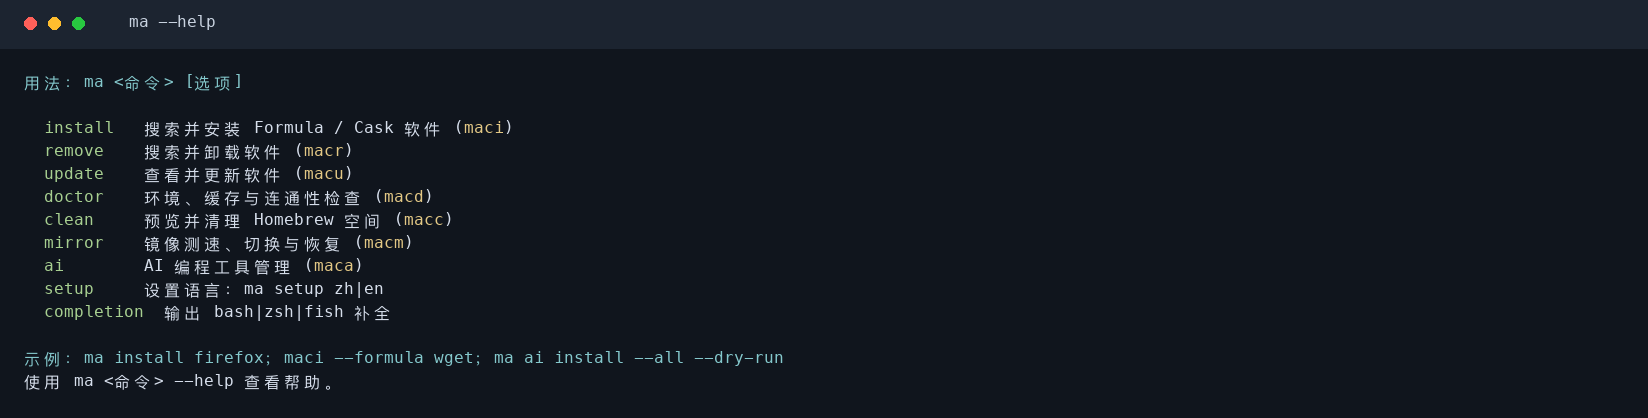
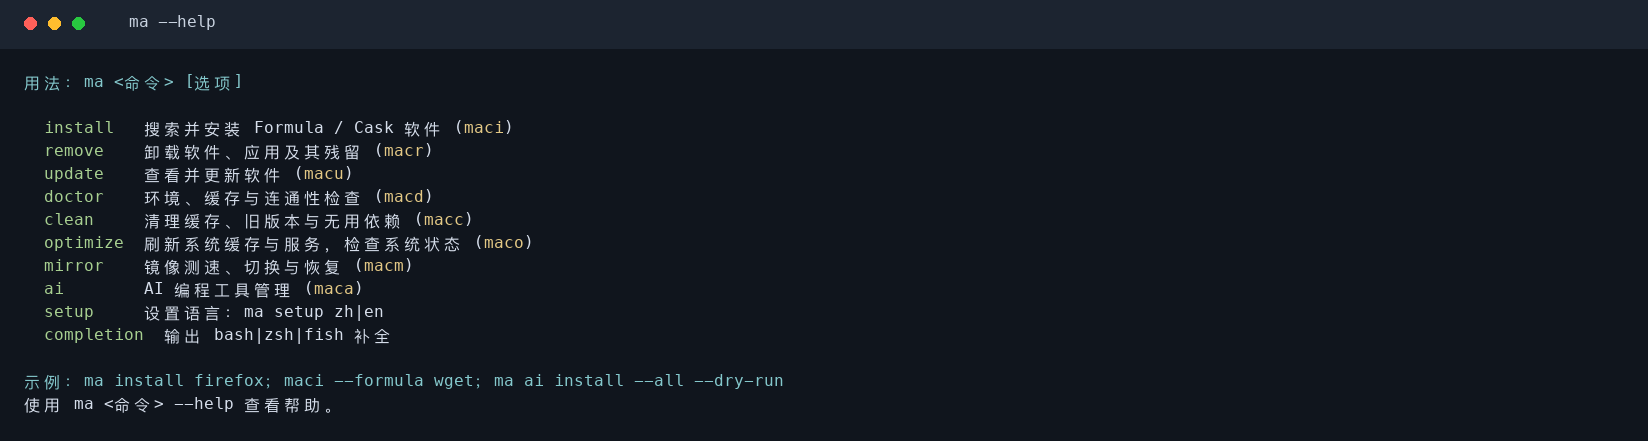
docs(mole): explain optimization tasks and application cleanup

diff --git a/README.en.md b/README.en.md
@@ -29,13 +29,13 @@ Supports Intel and Apple Silicon, works with macOS system Bash 3.2, and uses the
 
 ## Interface demo
 
-Search, selection, and package details: Blue marks official Homebrew sources; purple marks third-party taps. Types use `formula` / `cask`; names are white, with a green `✓` beside installed versions. the name heading is centered, package names are left aligned, and versions are right aligned. Use `Tab` to select multiple packages and `Ctrl+/` to toggle details.
+Search, selection, and package details: Blue marks official Homebrew sources; purple marks third-party taps. Types use `formula` / `cask` (`app` for native applications); names are white, with a green `✓` beside installed versions. The name heading is centered, package names are left aligned, and versions are right aligned. Use `Tab` to select multiple packages and `Ctrl+/` to toggle details.
 
 ![maci searching for Firefox with Homebrew package details on the right](docs/images/install-status.png)
 
 Commands and shortcuts:
 
-![ma help showing seven features and their shortcuts](docs/images/commands-color.png)
+![ma help showing features and their shortcuts](docs/images/commands-color.png)
 
 ## Install and uninstall
 
@@ -109,10 +109,11 @@ The standalone installer tries GitHub Raw and then jsDelivr, downloading and val
 | Feature | Full command | Shortcut |
 |---|---|---|
 | Search and install packages | `ma install` | `maci` |
-| Search and remove packages | `ma remove` | `macr` |
+| Remove packages, apps and leftovers | `ma remove` | `macr` |
 | Review and update packages | `ma update` | `macu` |
 | Check environment, caches, and connectivity | `ma doctor` | `macd` |
 | Preview and clean disk space | `ma clean` | `macc` |
+| Refresh caches and services, optimize system | `ma optimize` | `maco` |
 | Benchmark, switch, and restore mirrors | `ma mirror` | `macm` |
 | Manage AI coding tools | `ma ai` | `maca` |
 
@@ -139,7 +140,10 @@ maci --list firefox          # List matches without opening the selector
 maci --refresh               # Fetch the name catalog again
 
 macr                        # Select multiple installed packages
-macr --cask firefox
+macr                        # Native apps first, then Homebrew packages
+macr --apps                 # Native applications and leftovers only
+macr --apps --app-data       # Include personal data in the reviewed plan
+macr --cask firefox          # Homebrew casks only
 macr --dry-run firefox      # Show the removal plan after selection
 
 macu                        # Select updates with current and target versions
@@ -163,6 +167,8 @@ Keyboard hints and column headings appear on separate lines. Chinese mode distin
 | `Ctrl+E` | Switch between contiguous substring and fuzzy matching |
 | `Ctrl+/` | Show / hide package details |
 | `Esc` | Exit and stop background package queries |
+
+`macr` places native applications first with yellow `app` labels and white names. Homebrew `cask` / `formula` colors remain blue or purple. Application removal reuses Mole source and previews bundles and leftovers before confirmation. Personal preferences and support data are kept by default; `--app-data` includes them in the plan. Native files move to Trash; Homebrew apps use `brew uninstall --cask`. Selecting both views of one app uninstalls it once. Any need for administrator access or quitting a running app is shown in the preview and acted on after confirmation. Explicit `--formula` / `--cask` filters select Homebrew packages; `--apps` selects native apps and can be combined with either filter.
 
 `maci`, `macu` and `macr` first show a list snapshot from the last 24 hours, then refresh it in the background without restarting the selector. First use still loads live data. Search and selection remain available during refresh; recent fzf versions retain selected packages. Pressing Enter early waits for the refresh to verify the selection. Removed packages and updates no longer needed are skipped; cached state never authorizes a package change. Single-type `--formula` / `--cask` selectors can reuse a combined snapshot, and live queries request only the required type. Switching details cancels the old preview query to avoid accumulating background work. Name catalogs are cached for one hour; `Ctrl+R` forces a catalog refresh. Cache defaults to `~/Library/Caches/mactools` and respects `XDG_CACHE_HOME`. `--list` always uses live state. `--list` and `--dry-run` neither write mactools cache nor change packages.
 
@@ -217,18 +223,54 @@ Select from the following actions, then preview and confirm:
 | `project-cache` | Rebuildable project caches, with tracked-file and nested-repository guards |
 | `project-artifacts` | Dependencies and build output inactive for at least 7 days and passing activity/content checks |
 | `installers` | Installer DMG, PKG, ISO, XIP and similar files under home; ZIPs must contain installer content |
+| `trash` / `saved-state` | Trash and closed-app window restoration state |
+| `recent-items` / `finder-metadata` | Review recent records and Finder metadata; preserve history and `.DS_Store` protected by Mole |
+| `mail-downloads` / `incomplete-downloads` | Old Mail download copies and idle incomplete downloads |
+| `old-app-versions` / `orphan-app-data` / `orphan-services` | Old app versions, app leftovers and stale system registrations |
+| `system-cache` / `group-cache` / `silicon-cache` | Old system, group container and Rosetta / Metal caches |
+| `device-firmware` / `failed-backups` | Old firmware downloads and stale inactive incomplete backups |
+| `mobile-cache` / `toolbox-cache` / `nix-garbage` | Unavailable simulators and device support, old Toolbox versions and dead Nix store paths |
+| `local-snapshots` / `system-updates` / `large-files` | Review snapshots, update staging and large files without automatic deletion |
+| `periodic-maintenance` / `disk-verify` | System periodic tasks and filesystem verification; disk verification requires `MOLE_ENABLE_DISK_VERIFY=1` |
 
 Homebrew uses its native `--dry-run`. Developer-cache previews only query paths and perform a bounded size scan; they never invoke cleanup commands. Sizes show current cache totals, not estimated savings. Missing optional tools show `SKIP`. Future installs or builds may recreate caches; stop Xcode builds before cleaning DerivedData.
 
-`--formula` / `--cask` restrict cleanup to the corresponding Homebrew actions. `--dev` selects developer actions without requiring Homebrew and cannot be combined with those flags. Cleanup preserves application user data, sources and Xcode Archives, and does not use `--zap`. `project-artifacts` can remove eligible inactive `node_modules`, `.venv`, `target`, `dist` and similar directories after preview and confirmation; dependencies or build output will need to be recreated.
+`--formula` / `--cask` restrict cleanup to the corresponding Homebrew actions. `--dev` selects developer actions without requiring Homebrew and cannot be combined with those flags. Cleanup does not use `--zap`. Ordinary cache actions preserve personal app data, sources and Xcode Archives. Trash, Mail downloads, recent items and saved state are separate opt-in categories that identify the affected data. `project-artifacts` can remove eligible inactive `node_modules`, `.venv`, `target`, `dist` and similar directories after preview and confirmation; dependencies or build output will need to be recreated.
 
-Extended cleanup bundles and reuses [Mole](https://github.com/tw93/Mole) source; no separate Mole installation is required. Upstream whitelist, process, open-file and path guards are retained. Preview scans without deleting; apply additionally checks the previewed target identities and skips new or replaced targets. mactools provides the selector and confirmation; detailed Mole diagnostics retain upstream English text. Cleanup neither requests nor reuses administrator access, empties Trash, removes recent-document records/mail attachments, or touches system snapshots and OS update staging.
+Extended cleanup bundles and reuses [Mole](https://github.com/tw93/Mole) source; no separate Mole installation is required. Upstream whitelist, process, open-file and path guards are retained. Preview scans without deleting; apply additionally checks the previewed target identities and skips new or replaced targets. mactools provides the selector and confirmation; detailed Mole diagnostics retain upstream English text. System cache and orphan-service actions request administrator access after confirmation when needed; previews do not request access. Snapshot, OS update staging and large-file actions only review or suggest candidates without deleting them, matching the vendored Mole version.
 
 Protect paths in `~/.config/mactools/mole/whitelist`, one absolute path per line (`~` is supported). Cleanup records are under `~/Library/Logs/mactools/mole/`, isolated from a separate Mole installation. Preview can write tool-owned diagnostics and temporary scan files, but never deletes cleanup targets. See [Mole integration](docs/MOLE.md) for the pinned source, coverage and rebuild steps. Distributed under [GPL-3.0](LICENSE); attribution is in [NOTICE](NOTICE.md).
 
 The cleanup menu opens before querying installed packages. Selection and preview query only the chosen package type; `autoremove` needs no package listing. Execution uses a freshly generated cleanup plan.
 
 The cleanup selector follows `maci`: search at the top, aligned type/name/scope columns, and descriptions with previews on the right. Use `Ctrl+/` to toggle details and `Ctrl+A` to select all. Repeated warnings about packages without the latest version installed are grouped in the details pane; the full plan and confirmation still appear before cleanup.
+
+## System optimization
+
+```bash
+maco                              # Select tasks, preview, then confirm
+ma optimize --list                # List tasks without scanning the system
+maco cache-refresh --dry-run      # Preview QuickLook and icon-cache refresh
+maco network-optimization         # Refresh DNS after VPN checks
+maco sqlite-vacuum --dry-run      # Preview database compaction
+```
+
+Reuses Mole's 19 optimization tasks without a separate `mo` installation. The selector follows the `maci` search, multi-select and detail layout. Opening it performs no optimization. `--dry-run` previews only; confirmed runs execute selected tasks and request administrator access only when needed. Noninteractive runs default to preview; applying requires explicit `--yes`.
+
+| Tasks | Effects |
+| --- | --- |
+| `cache-refresh` / `saved-state-cleanup` | Refresh QuickLook and icon caches; remove app states older than 30 days |
+| `fix-broken-configs` / `shared-file-list-repair` | Repair corrupted preferences and eligible Finder shared lists; preserve recent-document data |
+| `network-optimization` / `network-stack-optimize` | Refresh DNS, routing and ARP caches; may briefly reconnect networking; retains VPN checks |
+| `sqlite-vacuum` | Compact Mail, Safari and Messages databases; skip running apps |
+| `prevent-network-dsstore` / `legacy-overrides-audit` | Set persistent Finder preferences for network/external volumes; audit old hidden overrides |
+| `disk-permissions-repair` | Detect and repair user-directory permissions using upstream rules |
+| `spotlight-index-optimize` / `spotlight-orphan-rules-cleanup` | Rebuild Spotlight indexes when needed; remove orphaned app search rules |
+| `periodic-maintenance` / `disk-verify` | Run supported maintenance; explicitly enabled filesystem verification does not repair disks |
+| `login-items-audit` / `launch-agents-cleanup` | Audit broken login items and LaunchAgents, retaining upstream report-only behavior |
+| `quarantine-cleanup` / `notification-cleanup` / `coreduet-cleanup` | Process download tracking, old notifications and usage records using upstream rules |
+
+Details and the final preview explain persistent preference changes, history processing and service refreshes. Filesystem verification requires `MOLE_ENABLE_DISK_VERIFY=1`. Detailed diagnostics retain upstream wording. See [Mole integration](docs/MOLE.md) for source and protection details.
 
 ## Mirrors
 
@@ -313,7 +355,7 @@ source <(ma completion zsh)
 ma completion fish | source
 ```
 
-Completion covers `ma` and all seven shortcuts, without network queries during completion.
+Completion covers `ma` and all eight shortcuts, without network queries during completion.
 
 ## Porting and validation
 

diff --git a/README.md b/README.md
@@ -35,7 +35,7 @@ ma ai install --all --dry-run
 
 完整命令和快捷入口：
 
-![ma 帮助界面，展示七项功能及对应缩写](docs/images/commands-color.png)
+![ma 帮助界面，展示功能及对应缩写](docs/images/commands-color.png)
 
 ## 安装与卸载
 
@@ -109,10 +109,11 @@ bash uninstall.sh --bin-dir "$HOME/bin"
 | 功能 | 完整命令 | 缩写 |
 |---|---|---|
 | 搜索并安装软件 | `ma install` | `maci` |
-| 搜索并卸载软件 | `ma remove` | `macr` |
+| 卸载软件、应用及其残留 | `ma remove` | `macr` |
 | 查看并更新软件 | `ma update` | `macu` |
 | 环境、缓存和连通性检查 | `ma doctor` | `macd` |
 | 预览并清理空间 | `ma clean` | `macc` |
+| 刷新缓存与服务、系统优化 | `ma optimize` | `maco` |
 | 镜像源测速、切换和恢复 | `ma mirror` | `macm` |
 | AI 编程工具管理 | `ma ai` | `maca` |
 
@@ -139,7 +140,10 @@ maci --list firefox          # 只列出匹配项，不进入交互
 maci --refresh               # 重新获取名称目录
 
 macr                        # 多选已安装软件
-macr --cask firefox
+macr                        # 本机应用排在前面，随后是 Homebrew 软件
+macr --apps                 # 只选择本机应用及残留
+macr --apps --app-data       # 同时预览个人数据，确认后卸载
+macr --cask firefox          # 仅 Homebrew cask
 macr --dry-run firefox      # 选择后只显示卸载计划
 
 macu                        # 新旧版本列表，多选更新
@@ -153,7 +157,7 @@ macu --refresh-index        # 先确认并执行 brew update，再查看更新
 
 安装界面展示来源、名称和已安装版本，预览区显示 Homebrew 软件详情。更新界面展示已安装版本和目标版本。搜索只匹配名称，来源、版本和安装状态不参与匹配。
 
-界面将操作提示与列标题分行显示，中文模式以“工具 / 应用”区分软件类型。宽终端在右侧展示详情，较窄终端将详情放到底部；预览字段遵循界面语言，软件名称和上游简介保留原文。
+界面将操作提示与列标题分行显示，软件类型显示为 `formula` / `cask`，本机应用显示为 `app`。宽终端在右侧展示详情，较窄终端将详情放到底部；预览字段遵循界面语言，软件名称和上游简介保留原文。
 
 | 按键 | 操作 |
 |---|---|
@@ -163,6 +167,8 @@ macu --refresh-index        # 先确认并执行 brew update，再查看更新
 | `Ctrl+E` | 切换连续子串 / 模糊匹配 |
 | `Ctrl+/` | 显示 / 收起软件详情 |
 | `Esc` | 退出并终止后台列表查询 |
+
+`macr` 的本机应用使用黄色 `app` 标识并排在列表前面，名称保持白色；Homebrew 的 `cask` / `formula` 仍使用蓝色或紫色。应用卸载复用 Mole 源码，确认前列出应用本体及残留；默认保留个人偏好与支持数据，`--app-data` 才将这些数据纳入计划。本机文件移到废纸篓，Homebrew 管理的应用由 `brew uninstall --cask` 卸载；同时选择应用与对应 cask 时只执行一次。需要管理员权限或退出运行中的应用时，会在预览中说明，确认后才执行。`--formula` / `--cask` 单独使用时只选择对应 Homebrew 类型，`--apps` 只列本机应用，也可与这两个选项组合。
 
 `maci`、`macu`、`macr` 优先显示最近 24 小时内的列表快照，后台重新查询并动态替换列表；首次使用仍需加载数据。刷新期间可以继续搜索和多选，新版 fzf 会保留已选软件。提前按 Enter 时会等待后台核对完成，已卸载或不再需要更新的软件会跳过；缓存不会直接决定包变更。单独筛选 `--formula` / `--cask` 时也可复用完整列表缓存，实时查询只读取所需类型。切换详情会停止旧的预览查询，避免后台查询积压。名称目录缓存一小时，`Ctrl+R` 会强制刷新目录。缓存默认在 `~/Library/Caches/mactools`，遵循 `XDG_CACHE_HOME`。`--list` 始终读取实时状态，`--list` 与 `--dry-run` 不写工具缓存，也不执行包变更。
 
@@ -217,18 +223,54 @@ macc project-artifacts --dry-run # 闲置项目依赖与构建产物
 | `project-cache` | 项目可再生缓存，检查 Git 跟踪文件和嵌套仓库 |
 | `project-artifacts` | 至少闲置 7 天、通过活动与内容检查的项目依赖和构建目录 |
 | `installers` | 用户目录中的 DMG、PKG、ISO、XIP 等安装包；ZIP 仅识别含安装内容的压缩包 |
+| `trash` / `saved-state` | 废纸篓、已关闭应用的窗口恢复状态 |
+| `recent-items` / `finder-metadata` | 检查最近记录与 Finder 元数据，保留 Mole 强制保护的记录和 `.DS_Store` |
+| `mail-downloads` / `incomplete-downloads` | 旧邮件下载副本、闲置的未完成下载 |
+| `old-app-versions` / `orphan-app-data` / `orphan-services` | 应用旧版本、卸载残留及失效的系统服务注册 |
+| `system-cache` / `group-cache` / `silicon-cache` | 系统旧缓存、共享容器及 Rosetta / Metal 缓存 |
+| `device-firmware` / `failed-backups` | 旧设备固件下载、过期且非活动的未完成备份 |
+| `mobile-cache` / `toolbox-cache` / `nix-garbage` | 无效模拟器与设备支持、Toolbox 旧版本、Nix 无引用存储 |
+| `local-snapshots` / `system-updates` / `large-files` | 检查快照、更新暂存及大文件，不自动删除 |
+| `periodic-maintenance` / `disk-verify` | 系统定期维护、磁盘文件系统检查；磁盘检查需 `MOLE_ENABLE_DISK_VERIFY=1` |
 
 Homebrew 使用自己的 `--dry-run` 展示预览；开发缓存只查询目录并限时统计大小，不在预览时调用清理命令。显示的是当前缓存总量，并非预计回收量。缺失的可选工具显示 `SKIP`。再次安装或构建时可能重新生成缓存；清理 Xcode 前请停止构建。
 
-`--formula` / `--cask` 仅保留对应 Homebrew 项目；`--dev` 仅保留开发相关项目，不依赖 Homebrew，不能与前两者合用。不清除应用用户数据、源代码或 Xcode Archives，不使用 `--zap`。`project-artifacts` 会列出符合规则的闲置 `node_modules`、`.venv`、`target`、`dist` 等目录，确认后删除；以后需要重新安装依赖或构建。
+`--formula` / `--cask` 仅保留对应 Homebrew 项目；`--dev` 仅保留开发相关项目，不依赖 Homebrew，不能与前两者合用。不使用 `--zap`；普通缓存类别保留应用个人数据、源代码和 Xcode Archives。废纸篓、邮件下载、最近使用记录、保存状态等独立类别会明确列出对应数据，请按需选择。`project-artifacts` 会列出符合规则的闲置 `node_modules`、`.venv`、`target`、`dist` 等目录，确认后删除；以后需要重新安装依赖或构建。
 
-扩展清理直接复用 [Mole](https://github.com/tw93/Mole) 的源码，随 mactools 打包，无需另外安装 Mole。保留上游的白名单、进程、打开文件和路径保护，预览只扫描；执行时还核对预览记录中的目标身份，新出现或被替换的目标会跳过。菜单和确认仍由 mactools 提供，Mole 的详细诊断保留上游英文输出。清理不会请求或复用管理员权限，不清空废纸篓，不删最近文档记录、邮件附件、系统快照或软件更新文件。
+扩展清理直接复用 [Mole](https://github.com/tw93/Mole) 的源码，随 mactools 打包，无需另外安装 Mole。保留上游的白名单、进程、打开文件和路径保护，预览只扫描；执行时还核对预览记录中的目标身份，新出现或被替换的目标会跳过。菜单和确认仍由 mactools 提供，Mole 的详细诊断保留上游英文输出。系统缓存、失效服务等项目在确认后按需申请管理员权限，预览不申请权限。系统快照、系统更新暂存和大文件类别仅检查或列出建议，不自动删除；这与所复用的 Mole 版本一致。
 
 自定义保护路径写入 `~/.config/mactools/mole/whitelist`（每行一个绝对路径，支持 `~`）。清理记录保存在 `~/Library/Logs/mactools/mole/`，与独立安装的 Mole 分开。预览也可能写入本工具的诊断记录及临时扫描文件，但不会删除清理目标。源码固定版本、接入范围与重建方法见 [Mole 接入说明](docs/MOLE.md)。项目采用 [GPL-3.0](LICENSE)，上游归属见 [NOTICE](NOTICE.md)。
 
 清理菜单直接打开，选择后才读取对应类型的软件列表；预览只查询当前项目，单独选择 `autoremove` 时无需读取软件列表。执行前生成实时清理计划。
 
 清理界面与 `maci` 保持一致：顶部搜索、对齐的类型/名称/范围列表，右侧展示清理说明和预览。`Ctrl+/` 收起或展开详情，`Ctrl+A` 全选；重复的“尚未安装最新版”提示在详情中合并显示，执行前仍展示完整计划并确认。
+
+## 系统优化
+
+```bash
+maco                              # 选择优化任务，先预览再确认
+ma optimize --list                # 列出任务，不扫描系统
+maco cache-refresh --dry-run      # 预览 QuickLook 和图标缓存刷新
+maco network-optimization         # 检查 VPN 后刷新 DNS 缓存
+maco sqlite-vacuum --dry-run      # 预览数据库整理，保留运行中应用保护
+```
+
+复用 Mole 的 19 项优化任务，无需另外安装 `mo`。列表沿用 `maci` 的搜索、多选与详情布局，按需选择，不在打开界面时执行优化。`--dry-run` 只预览；确认后只运行所选任务，必要时申请管理员权限。非交互环境默认只预览，自动执行需显式 `--yes`。
+
+| 任务 | 操作与影响 |
+| --- | --- |
+| `cache-refresh` / `saved-state-cleanup` | 刷新 QuickLook、图标缓存；清理超过 30 天的应用保存状态 |
+| `fix-broken-configs` / `shared-file-list-repair` | 检查并修复损坏偏好与可修复的 Finder 共享列表，保留最近文件数据 |
+| `network-optimization` / `network-stack-optimize` | DNS、路由与 ARP 刷新；网络可能短暂重连，保留 VPN 检查 |
+| `sqlite-vacuum` | 整理 Mail、Safari、Messages 等数据库；应用运行中跳过 |
+| `prevent-network-dsstore` / `legacy-overrides-audit` | 调整网络与外接卷的 Finder 偏好；检查旧优化工具遗留的隐藏设置 |
+| `disk-permissions-repair` | 按上游检测修复用户目录权限 |
+| `spotlight-index-optimize` / `spotlight-orphan-rules-cleanup` | 按需重建 Spotlight 索引、移除失效的应用搜索规则 |
+| `periodic-maintenance` / `disk-verify` | 系统支持时执行定期维护；显式启用后校验文件系统，不修复磁盘 |
+| `login-items-audit` / `launch-agents-cleanup` | 检查失效登录项与 LaunchAgents，保留上游仅报告行为 |
+| `quarantine-cleanup` / `notification-cleanup` / `coreduet-cleanup` | 按上游规则整理下载跟踪、旧通知及使用记录；预览会说明涉及的数据 |
+
+部分任务会修改持久偏好、历史记录或刷新服务，具体影响会在详情和确认前展示。磁盘检查需要 `MOLE_ENABLE_DISK_VERIFY=1`。详细诊断保留 Mole 原文；保护规则与源码说明见 [Mole 接入说明](docs/MOLE.md)。
 
 ## 镜像源
 
@@ -313,7 +355,7 @@ source <(ma completion zsh)
 ma completion fish | source
 ```
 
-补全覆盖 `ma` 和七个缩写入口，不在补全期间联网查询。
+补全覆盖 `ma` 和八个缩写入口，不在补全期间联网查询。
 
 ## 移植与验证
 

diff --git a/docs/MOLE.md b/docs/MOLE.md
@@ -1,4 +1,4 @@
-# Mole 清理源码接入
+# Mole 清理与应用卸载源码接入
 
 上游：https://github.com/tw93/Mole
 
@@ -9,9 +9,11 @@
 
 ## 源码和安装
 
-`third_party/mole/` 保留 clean、purge、installer 入口与共享 lib 源码，
+`third_party/mole/` 保留 clean、purge、installer、uninstall 入口与共享 lib 源码，
 直接调用上游函数，未将其改写成另一份路径列表。`mactools-bridge.sh`
 负责类别分派、权限范围与预览授权；`bin/mactools_mole.py` 负责加载和进程生命周期。
+`mactools-apps.sh` 与 `bin/mactools_apps.py` 提供本机应用识别、残留预览及卸载。
+`mactools-optimize.sh` 与 `bin/mactools_optimize.py` 接入优化任务。
 这不需要安装、更新或调用系统中的 `mo`。
 
 `bin/mactools_mole.zip` 是上述目录的可读源码包，包含 GPL 文本与归属说明。
@@ -47,6 +49,19 @@ python3 -m unittest discover -s tests -v
 | project-cache | clean_project_caches，使用上游扫描和 Git 保护 |
 | project-artifacts | clean_project_artifacts，使用上游闲置、内容、活动与删除前复查 |
 | installers | collect_installers + build_installer_delete_plan + execute_installer_delete_plan |
+| trash / recent-items / mail-downloads / incomplete-downloads | clean_trash / _clean_recent_items / _clean_mail_downloads / _clean_incomplete_downloads |
+| saved-state | opt_saved_state_cleanup |
+| old-app-versions | Chrome / Edge / Brave / Autodesk Fusion 的旧版本清理函数 |
+| orphan-app-data | clean_orphaned_app_data + clean_orphaned_container_stubs |
+| orphan-services / system-cache | clean_orphaned_system_services / clean_deep_system |
+| finder-metadata / group-cache / silicon-cache | clean_finder_metadata / clean_group_container_caches / clean_apple_silicon_caches |
+| device-firmware / failed-backups | clean_cached_device_firmware / clean_time_machine_failed_backups |
+| mobile-cache / toolbox-cache | clean_dev_mobile + clean_xcode_tools / clean_dev_jetbrains_toolbox |
+| nix-garbage | clean_dev_nix，通过 nix-store 查询并仅删除已预览的无引用路径 |
+| local-snapshots | clean_local_snapshots，仅提供上游检查与建议 |
+| system-updates | 保留上游不删除更新暂存的策略，仅查看目录大小 |
+| large-files | check_large_file_candidates，仅列建议 |
+| periodic-maintenance / disk-verify | opt_periodic_maintenance / opt_disk_verify，磁盘校验需显式启用 |
 
 原有 Homebrew、pip、npm、pnpm、uv、Go、ccache、DerivedData 入口保留原生计划实现，
 不调用上游整套 clean_developer_tools，因此不会顺带执行额外 Homebrew 清理。
@@ -60,16 +75,52 @@ Mole 类别可有重叠；前一项已删掉的路径不会再次删除。
 目录授权覆盖该目录内容，不是每个子文件的永久快照；正在写入的数据仍依赖上游活动检查。
 子进程退出、超时或中断时，适配器回收整个进程组，避免残留清理进程。
 
-以下是有意收窄的范围，不能将“包含源码”理解为执行 Mole 的所有系统维护功能：
+`ma clean` 仅运行所选清理类别；系统优化由独立的 `ma optimize` / `maco` 入口选择：
 
-- 不获取或复用 sudo，拒绝 home 之外的删除与管理命令。
-- 不清空废纸篓、最近文档、邮件下载、应用保存状态；不删除签名应用的旧版本。
-- 不接入 orphaned app data、system services、系统快照、系统更新、磁盘维护或 Nix 系统 store。
-- 不接入 simctl 的批量直接删除；仅保留经过清理入口保护的 XCTest 设备与文档缓存。
-- 不清理源码、应用账户和会话、Xcode Archives、虚拟机磁盘及受保护模型目录。
-- project-artifacts 单独列在菜单，可移除闲置项目的依赖目录；Git 文件、嵌套仓库、
-  活跃/近期项目和无法确认状态的项目按上游规则保留。无人值守执行跳过云同步产物。
-- 安装包扫描限定在 home 的上游目录列表；不扫描 `/Users/Shared`。普通 ZIP 不视为安装包。
+- 普通缓存类别禁用顺带清空废纸篓、邮件下载、最近记录及旧应用版本；这些功能单独列为可选类别。
+- 系统缓存、失效服务及其他需要管理员权限的任务，仅在预览与确认后按需授权。
+  预览不调用 sudo；无权读取的目录保持不可预览，不会在授权后追加为可删除目标。
+- 最近记录与 Finder 元数据保留 Mole 的强制保护；相关菜单标为检查，受保护的记录及 `.DS_Store` 不删除。
+- 系统快照由 Time Machine 管理、更新暂存由 Software Update 管理，所复用版本不自动删除它们。
+  大文件也只列建议；磁盘校验不执行修复，且需要 `MOLE_ENABLE_DISK_VERIFY=1`。
+- 不清理源代码、Xcode Archives、虚拟机磁盘及受保护模型目录。专门的保存状态、
+  邮件下载、最近记录和应用残留类别会清理其描述中的数据，并在确认前展示范围。
+- project-artifacts 可移除闲置项目的依赖目录；Git 文件、嵌套仓库、活跃/近期项目和无法确认
+  状态的项目按上游规则保留。无人值守执行跳过云同步产物。
+- 安装包扫描沿用上游用户目录和 `/Users/Shared`，仍受身份与路径保护；普通 ZIP 不视为安装包。
+- Nix 重新查询无引用路径，只把已预览并保持身份的路径交给原生删除接口；
+  无效模拟器逐个核对设备目录，只处理预览时已记录的实例。
+- 失败备份沿用上游直接调用 `tmutil delete` 的行为；权限不足时保留并报告，不自动提权重试。
+
+## macr 应用及残留卸载
+
+默认 `macr` 列出 Mole 允许卸载的本机应用，以黄色 `app` 排在 Homebrew 行前面；
+类型与名称仍使用原有对齐方式，名称为白色。`macr --apps` 只列本机应用，
+`--formula` / `--cask` 单独使用只列 Homebrew；组合 `--apps --cask` 可同时选择。
+列表仅发现应用，不在打开界面时扫描所有残留；缓存刷新和选择后核验沿用包管理界面。
+
+卸载复用 Mole 的 `_batch_scan_app_details`、`_uninstall_prepare_data_review`、
+`_batch_execute_removals` 与删除保护。确认前显示应用及残留完整路径，默认保留个人偏好
+和支持数据；`--app-data` 显式纳入这些数据。系统残留中的仅供审查项会保留。
+本机文件移到废纸篓；Homebrew 管理的应用使用其所属 Homebrew 的完整 cask 名卸载，
+不传 `--zap`。同时选中应用及同一 cask 时去重，不按软件短名跨 tap 或 Homebrew 前缀合并。
+Homebrew 来源查询失败或声明冲突时不自动卸载；没有 cask 归属的本机应用仍可卸载。
+应用发现沿用 Mole 的标准安装目录，非标准位置的应用可能不会列出。卸载前再次核对目标身份；运行中应用与权限需求
+在预览中说明，确认后才退出应用或申请权限。
+
+## ma optimize / maco
+
+`optimize_info()` 的 19 个任务 ID 与固定上游 `lib/optimize/catalog.sh` 一一对应，
+以连字符代替下划线。通过 `execute_optimization` 调用对应处理函数，保留
+上游条件检查、白名单、结果分类、VPN 与运行中应用保护。打开菜单仅生成元数据；
+选中后运行上游 dry-run 并展示权限、持久偏好、历史记录和服务刷新影响，再确认执行。
+`--list` 不扫描；`--dry-run` 不执行优化；非交互默认只预览，`--yes` 需要明确指定任务名。
+
+优化确认针对所选任务与说明的操作范围，数据库整理及系统命令按执行时的上游检测结果处理；
+不将它们声称为逐行数据库快照。文件删除另有预览路径身份核验。
+管理员权限由所选任务实际需要的受限命令触发；磁盘校验仍需 `MOLE_ENABLE_DISK_VERIFY=1`，
+不执行修复。登录项与失效启动代理只报告；维护脚本在不支持的 macOS 版本跳过。
+具体任务及影响见中英文 README，详细诊断沿用上游原文。
 
 状态位置：`~/.config/mactools/mole/`、`~/.cache/mactools/mole/` 与
 `~/Library/Logs/mactools/mole/`。白名单位于第一个目录中的 `whitelist`，
@@ -78,5 +129,6 @@ Mole 类别可有重叠；前一项已删掉的路径不会再次删除。
 
 集成测试在临时 HOME 中验证所有类别可预览，并针对实际临时缓存验证确认后删除、
 白名单、身份替换、符号链接、未预览的新目标、普通压缩包保留与日志。
-这不等于对每个第三方应用版本完成了实际清理验证；上游规则会随应用变化，
+应用卸载测试也只使用临时应用与替身工具，不卸载本机软件。
+这不等于对每个第三方应用版本完成了实际清理或卸载验证；上游规则会随应用变化，
 更新 vendored 源码时应复查映射和删除入口并重跑隔离测试。

diff --git a/docs/PORTING.md b/docs/PORTING.md
@@ -1,15 +1,15 @@
 # mactools 移植规格
 
-来源：https://github.com/tingfeng347/ubtools ，移植保留七个功能和中英文、fzf 多选、确认、dry-run、缓存、补全。
-入口 ma，缩写 maci/macr/macu/macd/macc/macm/maca。maci = ma install。
+来源：https://github.com/tingfeng347/ubtools ，移植保留原有功能和中英文、fzf 多选、确认、dry-run、缓存、补全。
+入口 ma，缩写 maci/macr/macu/macd/macc/maco/macm/maca。maci = ma install。
 Python 3.9+ 标准库，启动器兼容系统 Bash 3.2；支持 Intel 和 Apple Silicon 的 brew 路径。
 包源为 Homebrew formula/cask，--brew 是 --formula 别名，不保留无效 apt/snap/flatpak 参数。
 执行包管理器时不使用 sudo；默认不自动刷新索引，update --refresh-index 才显式 brew update。
 只读/预览命令不修改包、缓存清理目标或镜像配置；--yes 仅跳过本工具确认。
-卸载/清理不使用 --zap，不删除应用用户数据。网络查询有超时，失败明确非零退出。
-清理扩展复用 third_party/mole 源码（GPL-3.0），按菜单类别运行，禁用管理员权限和用户数据清理。
+卸载/清理不使用 --zap；应用个人数据仅由 macr --app-data 纳入预览，专门的数据清理类别按需选择。网络查询有超时，失败明确非零退出。
+清理扩展复用 third_party/mole 源码（GPL-3.0），按菜单类别运行；管理员操作仅在已预览并确认执行后按需授权，检查类项目不自动删除。
 project-artifacts 经预览确认可删除至少闲置 7 天且通过上游保护检查的项目依赖及构建产物。
-Mole 执行只能处理当前计划已预览的目标；新目标或身份变化的目标跳过。规则与归属见 docs/MOLE.md。
+Mole 清理与卸载只能处理当前计划已预览的目标；新目标或身份变化的目标跳过。规则与归属见 docs/MOLE.md。
 镜像配置为专属 shell 片段，用户 source 后生效；备份、并发测速、回滚与精确恢复，不修改用户 shell 配置。
 AI 复用上游管理逻辑，macOS 原生/Homebrew/npm/pnpm/Bun 来源识别，保留多副本和登录数据。
 安装/卸载默认 ~/.local/bin，支持 BIN_DIR/--bin-dir，完整暂存校验后部署，无需 sudo。
@@ -18,7 +18,10 @@ AI 复用上游管理逻辑，macOS 原生/Homebrew/npm/pnpm/Bun 来源识别，
 
 bin/ma -> python3 bin/mactools.py。mactools.py 设置 MACTOOLS_LANG 并按功能导入模块。
 包功能模块 bin/mactools_packages.py: main(argv)，argv 包含 action install/remove/update。
+本机应用模块 bin/mactools_apps.py: installed_apps/resolve_apps/AppUninstallPlan，复用 Mole 卸载源码。
+macr 默认将黄色 app 排在 Homebrew cask/formula 前，明确类型选项可限制来源，应用与 cask 去重。
 维护模块 bin/mactools_system.py: main(argv)，argv 包含 action doctor/clean。
+优化模块 bin/mactools_optimize.py: main(argv)，argv 不包含 optimize；复用 Mole 19 项任务，先预览、确认后仅运行所选任务。
 镜像模块 bin/mactools_mirror.py: main(argv)，argv 不包含 mirror。
 AI 模块 bin/mactools_ai.py: main(argv)，argv 不包含 ai。
 运行时 bin/mactools_runtime.py 复用上游接口，新增 brew_path()/brew_env()/cache_dir()/config_dir()/state_dir()。
@@ -30,7 +33,7 @@ main 返回退出状态整数；入口统一捕获 OSError/ValueError/TimeoutExp
 - feat/packages：Homebrew 目录/缓存、fzf 安装卸载更新、隔离包管理器测试。
 - feat/system：诊断/清理、镜像瓶校验/备份/回滚/恢复、本地 HTTP 测试。
 - feat/ai：上游 AI 管理复用、macOS 多 Homebrew 前缀识别、伪终端测试。
-- main：ma/七个缩写、语言设置、三种 shell 补全、安装卸载、文档与 CI。
+- main：ma/八个缩写、语言设置、三种 shell 补全、安装卸载、文档与 CI。
 - 独立 review/merge agent：核对本规格与上游、审查各功能分支、合并并完整验证。
 
 参考源码和并行工作目录保存在项目自身 .reference/ubtools 和 .worktrees 下。
